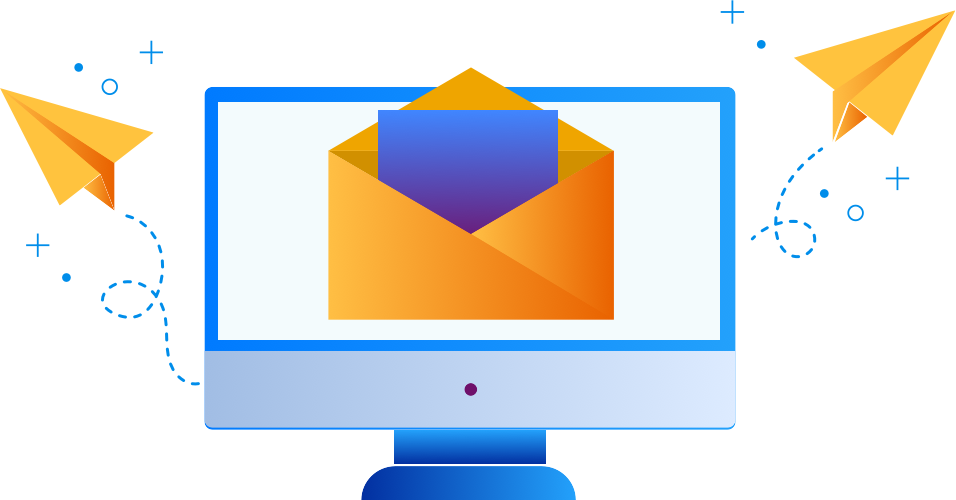
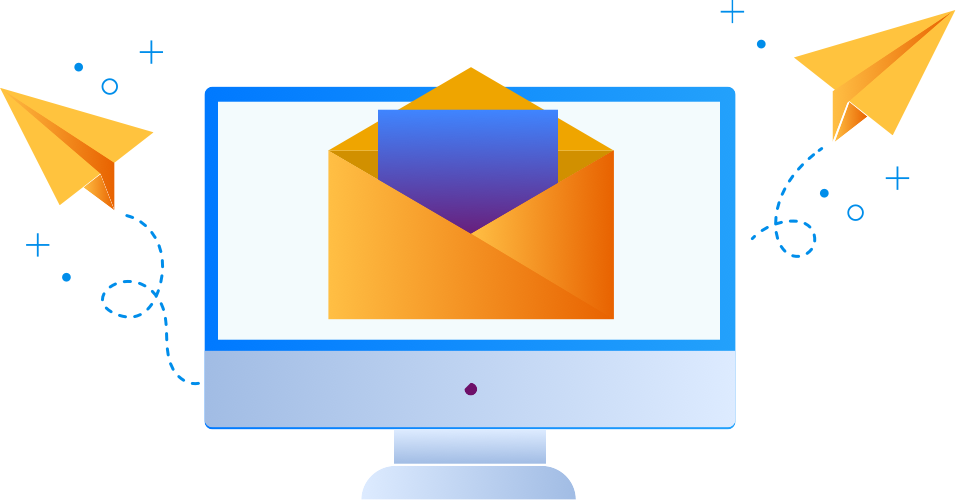
input field change to SNERTextfiueld also the img for subscribe staking is changed in the How It Works section

diff --git a/packages/stake-dapp/src/Pages/HowItWorks/styles.js b/packages/stake-dapp/src/Pages/HowItWorks/styles.js
@@ -9,7 +9,11 @@ export const useStyles = MUITheme => ({
   },
   benefitsMedia: {
     textAlign: "center",
-    "& img": { width: "100%" },
+    "& img": {
+      width: 519,
+      [MUITheme.breakpoints.down("md")]: { width: "100%" },
+      [MUITheme.breakpoints.down("sm")]: { width: 519 },
+    },
   },
   benefitsContent: {
     "& h2": {
@@ -49,7 +53,7 @@ export const useStyles = MUITheme => ({
 
   // SignUp container
   signUpContainer: {
-    padding: "71px 64px",
+    padding: "51px 64px",
     display: "flex",
     alignItems: "center",
     justifyContent: "center",
@@ -65,16 +69,25 @@ export const useStyles = MUITheme => ({
     },
     "& form": {
       display: "flex",
+      alignItems: "center",
+      "& > div": {
+        width: 370,
+        marginRight: 24,
+        "& > div": {
+          maxWidth: "100%",
+          flexBasis: "100%",
+          "& .MuiFormControl-marginNormal": { margin: 0 },
+        },
+        "& label": {
+          color: MUITheme.palette.text.lightGrey,
+          fontSize: 16,
+          letterSpacinng: 0,
+          lineHeight: "20px",
+        },
+        "& .MuiInputLabel-formControl": { top: -5 },
+        "& .MuiOutlinedInput-notchedOutline": { borderColor: "rgba(25,25,25,0.32)" },
+      },
       [MUITheme.breakpoints.down("sm")]: { marginTop: 25 },
-    },
-    "& input": {
-      boxSizing: "border-box",
-      width: 365,
-      padding: "0 15px",
-      border: "1px solid #979797",
-      borderRadius: 2,
-      marginRight: 8,
-      "@media(max-width: 480px)": { width: "100%" },
     },
     "& button": { padding: "19px 33px 17px" },
     "& img": {

diff --git a/packages/stake-dapp/src/Pages/HowItWorks/index.js b/packages/stake-dapp/src/Pages/HowItWorks/index.js
@@ -5,6 +5,7 @@ import Grid from "@material-ui/core/Grid";
 import Typography from "@material-ui/core/Typography";
 import { withStyles } from "@material-ui/styles";
 
+import SNETTextfield from "shared/dist/components/SNETTextfield";
 import SNETButton from "shared/dist/components/SNETButton";
 
 import ComputeMailsImage from "shared/dist/assets/images/ComputeMails.png";
@@ -46,7 +47,7 @@ const HowItWorks = ({ classes, history }) => {
             name="mc-embedded-subscribe-form"
             noValidate=""
           >
-            <input type="email" name="EMAIL" label="email" />
+            <SNETTextfield name="EMAIL" label="email" />
             <SNETButton type="submit" children="subscribe" color="primary" variant="contained" />
           </form>
         </Grid>
